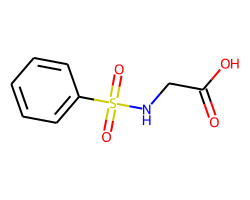
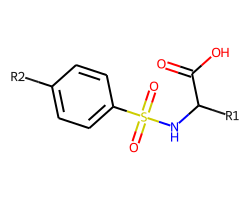
Molecules now disappear when they collide with the main scaffold, have also rearranged the way the R groups are displayed onscreen'

Changed region(s): [[0.028, 0.24, 0.98, 0.78], [0.756, 0.54, 0.784, 0.57], [0.728, 0.57, 0.756, 0.6]]

diff --git a/game_scripts/draganddrop.py b/game_scripts/draganddrop.py
@@ -25,36 +25,9 @@ SCREEN_TITLE = "Go Forth and Discover Drugs"
 CHARACTER_SCALING = 1
 TILE_SCALING = 0.5
 
-#Scaffold molecule
-scaffold = Chem.MolFromSmiles('O=S(C1=CC=CC=C1)(NCC(O)=O)=O')
-d = rdMolDraw2D.MolDraw2DCairo(250, 200)
-d.drawOptions().addStereoAnnotation = True
-d.drawOptions().clearBackground = False
-d.DrawMolecule(scaffold)
-d.FinishDrawing()
-d.WriteDrawingText('Images/scaffold.png')
+#Initial scaffold molecule
+scaffold = Chem.MolFromSmiles('O=C(O)C(NS(=O)(=O)c1ccc([*:2])cc1)[*:1] |$;;;;;;;;;;;;R2;;;R1$|')
 
-#fetch n R groups from the dataset
-#Turn decomp R group dataset into a pandas dataframe
-rgroupdata = pd.read_csv('data/r_group_decomp.csv')
-#Get R1 groups
-r1 = get_selection('R1', 3, rgroupdata)
-
-#get R2 groups
-r2 = get_selection('R2', 3, rgroupdata)
-
-#Convert R1 group SMILES to displayable images 
-for r in [r1,r2]:
-    print(r)
-    for idx, list in enumerate(r[1]):
-        rgroup = Chem.MolFromSmiles(list)
-        d = rdMolDraw2D.MolDraw2DCairo(250, 200)
-        d.drawOptions().addStereoAnnotation = True
-        d.drawOptions().clearBackground = False
-        d.DrawMolecule(rgroup)
-        d.FinishDrawing()
-        d.WriteDrawingText('Images/rgroup {}.png'.format(r[0][idx]))
- 
 class MyGame(arcade.Window):
     """ 
     Main game class
@@ -62,7 +35,7 @@ class MyGame(arcade.Window):
 
     def __init__(self):
 
-        #Call the parent class and set up the windwo
+        #Call the parent class and set up the window
         super().__init__(SCREEN_WIDTH, SCREEN_HEIGHT, SCREEN_TITLE)
 
         #Lists that keep track of the 'sprites' aka molecules and r groups
@@ -77,6 +50,35 @@ class MyGame(arcade.Window):
         """
         This function sets up the game, call it to restart.
         """
+       
+        #scaffold = Chem.MolFromSmiles('O=S(C1=CC=CC=C1)(NCC(O)=O)=O')
+        d = rdMolDraw2D.MolDraw2DCairo(250, 200)
+        d.drawOptions().addStereoAnnotation = True
+        d.drawOptions().clearBackground = False
+        d.DrawMolecule(scaffold)
+        d.FinishDrawing()
+        d.WriteDrawingText('Images/scaffold.png')
+
+        #fetch n R groups from the dataset
+        #Turn decomp R group dataset into a pandas dataframe
+        rgroupdata = pd.read_csv('data/r_group_decomp.csv')
+        #Get R1 groups
+        r1 = get_selection('R1', 3, rgroupdata)
+
+        #get R2 groups
+        r2 = get_selection('R2', 3, rgroupdata)
+
+        #Convert R1 group SMILES to displayable images 
+        for r in [r1,r2]:
+            for idx, list in enumerate(r[1]):
+                rgroup = Chem.MolFromSmiles(list)
+                d = rdMolDraw2D.MolDraw2DCairo(250, 200)
+                d.drawOptions().addStereoAnnotation = True
+                d.drawOptions().clearBackground = False
+                d.DrawMolecule(rgroup)
+                d.FinishDrawing()
+                d.WriteDrawingText('Images/rgroup {}.png'.format(r[0][idx]))
+        
         #Create the sprite lists
         self.scaffold_list = arcade.SpriteList()
         self.rgroup_list = arcade.SpriteList(use_spatial_hash=True)
@@ -86,15 +88,15 @@ class MyGame(arcade.Window):
         self.scaffold_sprite.position = (SCREEN_WIDTH /2,SCREEN_HEIGHT /2)
         self.scaffold_list.append(self.scaffold_sprite)
 
-        #Create and display R1 groups on the left
-        for r in range(len(r1[0])):
-            rgroup = arcade.Sprite('Images/rgroup {}.png'.format(r1[0][r]), TILE_SCALING)
+        #Create and display R2 groups on the left
+        for r in range(len(r2[0])):
+            rgroup = arcade.Sprite('Images/rgroup {}.png'.format(r2[0][r]), TILE_SCALING)
             rgroup.position = (100, r*200 + 100)
             self.rgroup_list.append(rgroup)
         
-        #Create and display R2 groups on the right
-        for r in range(len(r2[0])):
-            rgroup = arcade.Sprite('Images/rgroup {}.png'.format(r2[0][r]), TILE_SCALING)
+        #Create and display R1 groups on the right
+        for r in range(len(r1[0])):
+            rgroup = arcade.Sprite('Images/rgroup {}.png'.format(r1[0][r]), TILE_SCALING)
             rgroup.position = (800, r*200 + 100)
             self.rgroup_list.append(rgroup)
 
@@ -135,6 +137,18 @@ class MyGame(arcade.Window):
         if len(self.held_molecule) == 0:
             return
 
+        #updates on all sprites in play
+        self.scaffold_list.update()
+        self.rgroup_list.update()
+
+        #create a list of any rgroups that have 'collided' with the scaffold
+        snap_on = arcade.check_for_collision_with_list(self.scaffold_sprite, self.rgroup_list)
+        
+        if snap_on != 0: 
+            for r in snap_on:
+                print(r)
+                r.remove_from_sprite_lists()
+
         # We are no longer holding cards
         self.held_molecule = []
 
@@ -145,6 +159,11 @@ class MyGame(arcade.Window):
         for molecule in self.held_molecule:
             molecule.center_x += dx
             molecule.center_y += dy
+
+    def on_update(self, delta_time):
+        """Keeps track of collisions and updates game play"""
+
+        
 
     def on_key_press(self, symbol: int, modifiers: int):
         """ User presses key """
